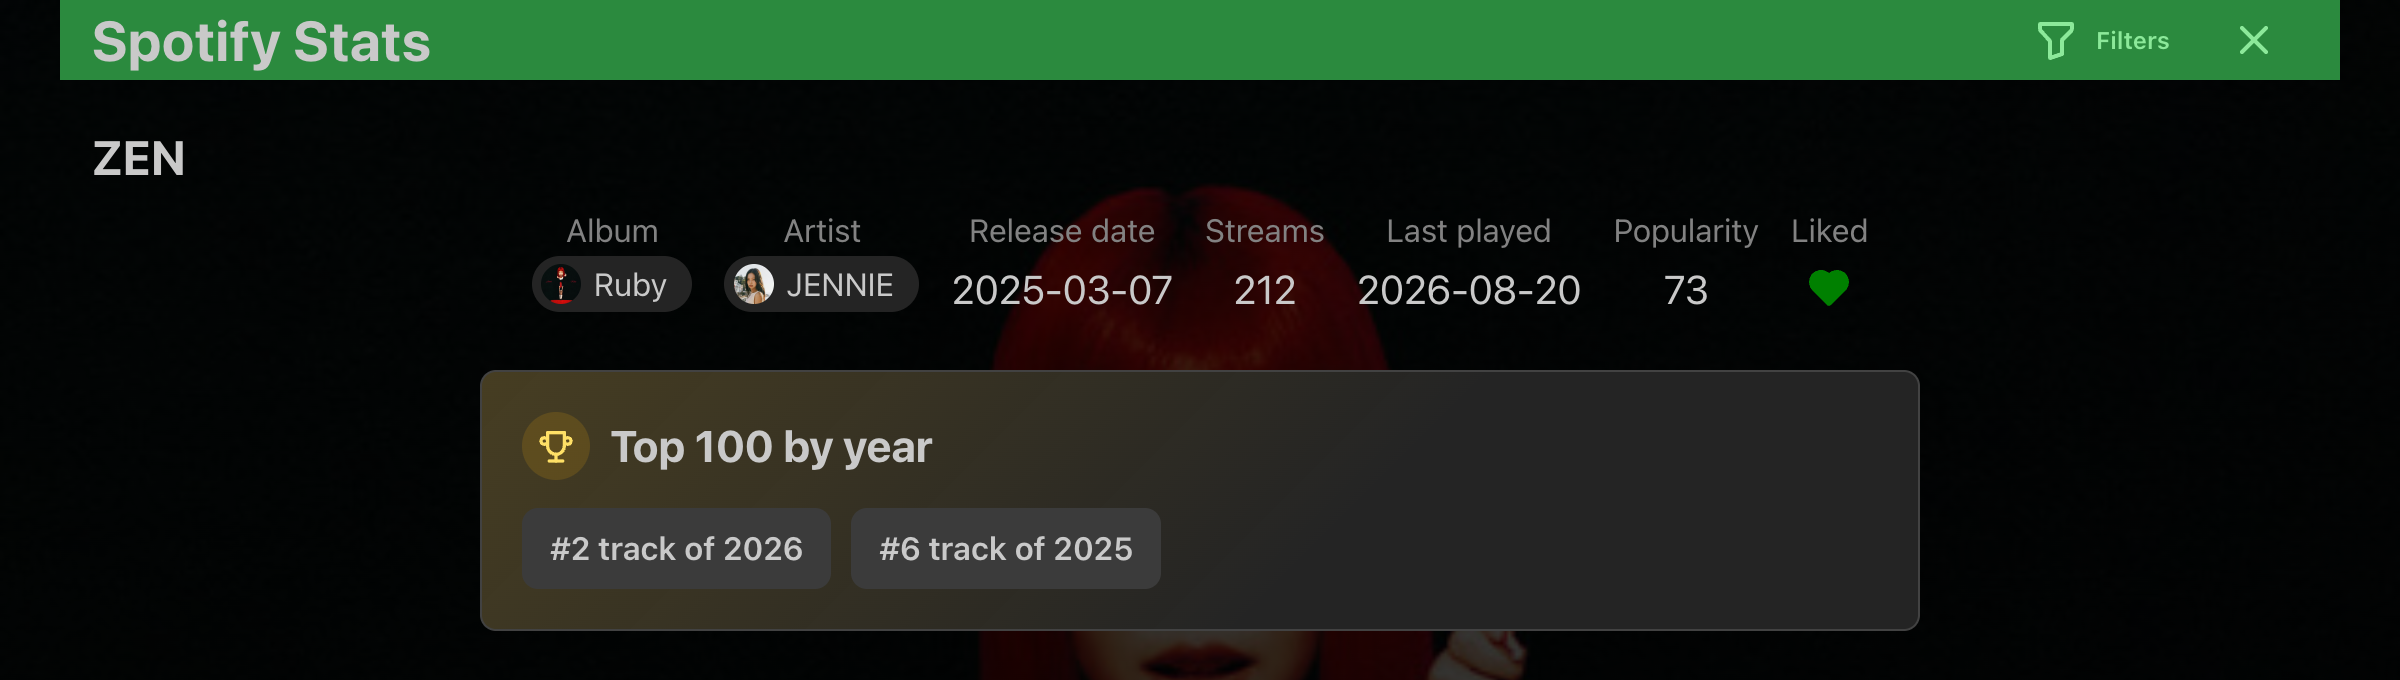
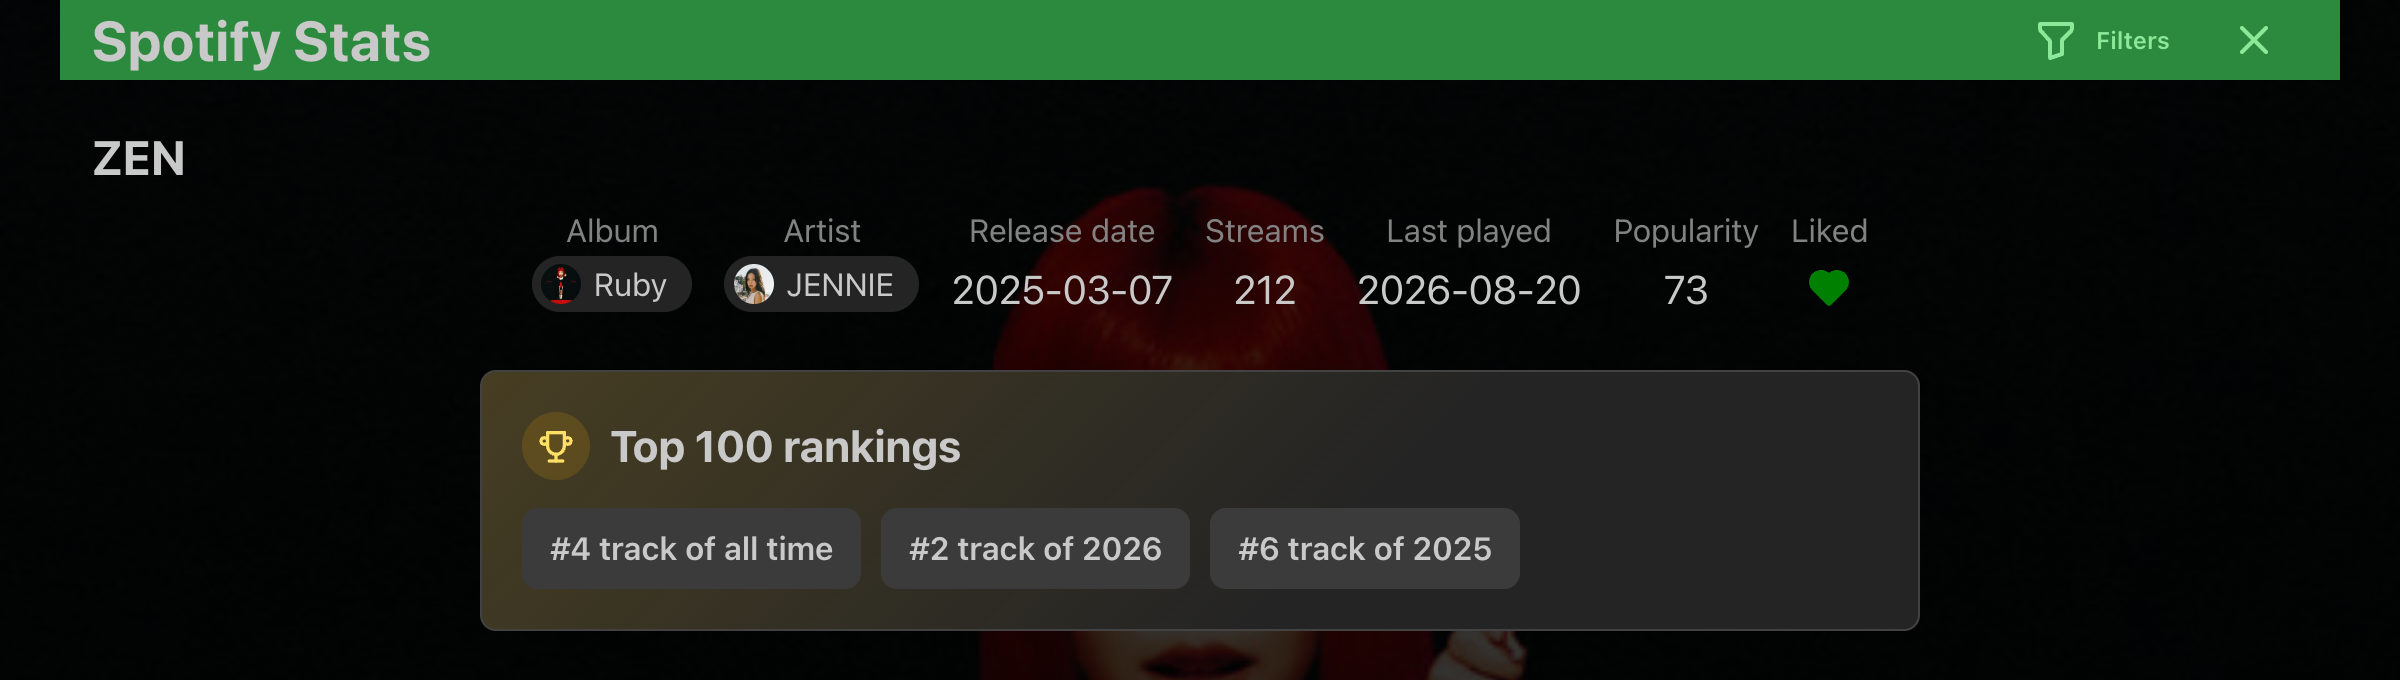
Add all-time top rankings
Copilot-Session: ed94926a-9a97-41ac-8987-03a39a0b0b0b

Changed region(s): [[0.2188, 0.7721, 0.625, 0.8338], [0.3125, 0.6176, 0.4062, 0.6794]]

diff --git a/client/src/design/TopRankings.tsx b/client/src/design/TopRankings.tsx
@@ -2,8 +2,8 @@ import { Paper, Text, ThemeIcon, Title } from "@mantine/core";
 import { IconTrophy } from "@tabler/icons-react";
 
 import type { RankingEntityType } from "../api";
-import { useYearlyRankings } from "../useApi";
-import styles from "./YearlyTopRankings.module.css";
+import { useTopRankings } from "../useApi";
+import styles from "./TopRankings.module.css";
 
 const entityLabels: Record<RankingEntityType, string> = {
   track: "track",
@@ -11,16 +11,16 @@ const entityLabels: Record<RankingEntityType, string> = {
   album: "album",
 };
 
-interface YearlyTopRankingsProps {
+interface TopRankingsProps {
   entityType: RankingEntityType;
   uri: string;
 }
 
-export function YearlyTopRankings({
+export function TopRankings({
   entityType,
   uri,
-}: YearlyTopRankingsProps) {
-  const { data: rankings } = useYearlyRankings(entityType, uri);
+}: TopRankingsProps) {
+  const { data: rankings } = useTopRankings(entityType, uri);
 
   if (!rankings?.length) return null;
 
@@ -32,12 +32,12 @@ export function YearlyTopRankings({
         <ThemeIcon color="yellow" variant="light" radius="xl" size="lg">
           <IconTrophy size={20} />
         </ThemeIcon>
-        <Title order={3}>Top 100 by year</Title>
+        <Title order={3}>Top 100 rankings</Title>
       </div>
       <div className={styles.rankings}>
         {rankings.map(({ rank, year }) => (
           <Text key={year} className={styles.ranking}>
-            #{rank} {entityLabel} of {year}
+            #{rank} {entityLabel} of {year ?? "all time"}
           </Text>
         ))}
       </div>

diff --git a/client/src/details/TrackDetails.tsx b/client/src/details/TrackDetails.tsx
@@ -7,7 +7,7 @@ import { TracksStreamingHistoryStack } from "../charts/TracksStreamingHistorySta
 import { ArtistPills } from "../design/ArtistPills";
 import { ChartSkeleton } from "../design/ChartSkeleton";
 import { KPIsList, KPIsListSkeleton } from "../design/KPI";
-import { YearlyTopRankings } from "../design/YearlyTopRankings";
+import { TopRankings } from "../design/TopRankings";
 import { AlbumPill } from "../list-items/AlbumPill";
 import { ArtistPill } from "../list-items/ArtistPill";
 import sharedStyles from "../list-items/ListItems.module.css";
@@ -75,7 +75,7 @@ export function TrackDetails({ trackURI }: { trackURI: string }) {
           ]}
         />
       </div>
-      <YearlyTopRankings entityType="track" uri={trackURI} />
+      <TopRankings entityType="track" uri={trackURI} />
       {credits && credits.length > 0 && <Credits credits={credits} />}
       <TracksStreamingHistoryStack />
       <TrackStreamsLineChart height={300} />

diff --git a/client/src/details/ArtistDetails.tsx b/client/src/details/ArtistDetails.tsx
@@ -4,7 +4,7 @@ import { ArtistStreamsLineChart } from "../charts/ArtistsLineChart";
 import { ArtistsStreamingHistoryStack } from "../charts/ArtistsStreamingHistoryStack";
 import { KPIsList, KPIsListSkeleton } from "../design/KPI";
 import { PillWithAvatar } from "../design/PillDesign";
-import { YearlyTopRankings } from "../design/YearlyTopRankings";
+import { TopRankings } from "../design/TopRankings";
 import { ArtistPill } from "../list-items/ArtistPill";
 import { useAlbums, useArtistCredits, useArtists } from "../useApi";
 import { useSetFilters } from "../useFilters";
@@ -78,7 +78,7 @@ export function ArtistDetails({ artistURI }: ArtistDetailsProps) {
         />
       </div>
 
-      <YearlyTopRankings entityType="artist" uri={artistURI} />
+      <TopRankings entityType="artist" uri={artistURI} />
 
       {artistCredits?.aliases && artistCredits.aliases.length > 0 && (
         <div style={{ marginTop: 24 }}>

diff --git a/client/src/api.ts b/client/src/api.ts
@@ -162,8 +162,8 @@ export interface YearCounts {
   year: number;
 }
 
-export interface YearlyRanking {
-  year: number;
+export interface TopRanking {
+  year: number | null;
   rank: number;
   stream_count: number;
 }
@@ -322,13 +322,13 @@ export async function getTrackCredits(uri: string): Promise<Credit[]> {
   return sendRequest(`/api/tracks/${uri}/credits`, `track credits for ${uri}`);
 }
 
-export async function getYearlyRankings(
+export async function getTopRankings(
   entityType: RankingEntityType,
   uri: string
-): Promise<YearlyRanking[]> {
+): Promise<TopRanking[]> {
   return sendRequest(
-    `/api/${entityType}s/${encodeURIComponent(uri)}/yearly-rankings`,
-    `${entityType} yearly rankings for ${uri}`
+    `/api/${entityType}s/${encodeURIComponent(uri)}/rankings`,
+    `${entityType} rankings for ${uri}`
   );
 }
 

diff --git a/client/src/useApi.ts b/client/src/useApi.ts
@@ -25,11 +25,11 @@ import {
   getRecommendationsInRange,
   getReleaseYears,
   getSpotifyAuthStatus,
+  getTopRankings,
   getTrackCredits,
   getTracks,
   getTracksStreamingHistory,
   getTracksStreamsByMonth,
-  getYearlyRankings,
   InsightsResponse,
   PaginatedResponse,
   PaginationParams,
@@ -165,14 +165,11 @@ export function useTrackCredits(uri: string) {
   });
 }
 
-export function useYearlyRankings(
-  entityType: RankingEntityType,
-  uri: string
-) {
+export function useTopRankings(entityType: RankingEntityType, uri: string) {
   return useQuery({
     ...defaultQueryOptions,
-    queryKey: ["yearly-rankings", entityType, uri],
-    queryFn: async () => getYearlyRankings(entityType, uri),
+    queryKey: ["top-rankings", entityType, uri],
+    queryFn: async () => getTopRankings(entityType, uri),
   });
 }
 

diff --git a/client/src/details/AlbumDetails.tsx b/client/src/details/AlbumDetails.tsx
@@ -3,7 +3,7 @@ import { AlbumsStreamingHistoryStack } from "../charts/AlbumsStreamingHistorySta
 import { ArtistPills } from "../design/ArtistPills";
 import { KPIsList } from "../design/KPI";
 import { TextSkeleton } from "../design/TextSkeleton";
-import { YearlyTopRankings } from "../design/YearlyTopRankings";
+import { TopRankings } from "../design/TopRankings";
 import { useAlbums } from "../useApi";
 import styles from "./Details.module.css";
 
@@ -52,7 +52,7 @@ export function AlbumDetails({ albumURI }: AlbumDetailsProps) {
           ]}
         />
       </div>
-      <YearlyTopRankings entityType="album" uri={albumURI} />
+      <TopRankings entityType="album" uri={albumURI} />
       <AlbumsStreamingHistoryStack />
       <AlbumStreamsLineChart height={300} />
     </>

diff --git a/client/src/design/TopRankings.module.css b/client/src/design/TopRankings.module.css
@@ -1,4 +1,5 @@
 .section {
+  width: 100%;
   max-width: 720px;
   margin: 24px auto;
   padding: 20px;

diff --git a/data/repository.py b/data/repository.py
@@ -178,14 +178,14 @@ class DataRepository:
             {"track_uri": track_uri},
         )
 
-    def track_yearly_rankings(self, track_uri: str) -> pd.DataFrame:
-        return self._yearly_rankings("track", track_uri)
+    def track_rankings(self, track_uri: str) -> pd.DataFrame:
+        return self._rankings("track", track_uri)
 
-    def artist_yearly_rankings(self, artist_uri: str) -> pd.DataFrame:
-        return self._yearly_rankings("artist", artist_uri)
+    def artist_rankings(self, artist_uri: str) -> pd.DataFrame:
+        return self._rankings("artist", artist_uri)
 
-    def album_yearly_rankings(self, album_uri: str) -> pd.DataFrame:
-        return self._yearly_rankings("album", album_uri)
+    def album_rankings(self, album_uri: str) -> pd.DataFrame:
+        return self._rankings("album", album_uri)
 
     def insight_frames(
         self, filters: Mapping[str, Any]
@@ -568,11 +568,9 @@ class DataRepository:
         with get_engine().begin() as connection:
             return self._read_dataframe_on(connection, query_name, params)
 
-    def _yearly_rankings(
-        self, entity_type: str, entity_uri: str
-    ) -> pd.DataFrame:
+    def _rankings(self, entity_type: str, entity_uri: str) -> pd.DataFrame:
         return self._read_dataframe(
-            f"select_{entity_type}_yearly_rankings",
+            f"select_{entity_type}_rankings",
             {"entity_uri": entity_uri},
         )
 

diff --git a/app/app.py b/app/app.py
@@ -52,9 +52,9 @@ def get_track_credits(track_uri):
     return track_credits_payload(track_uri)
 
 
-@app.route("/api/tracks/<track_uri>/yearly-rankings")
-def get_track_yearly_rankings(track_uri):
-    return to_json(repository.track_yearly_rankings(track_uri))
+@app.route("/api/tracks/<track_uri>/rankings")
+def get_track_rankings(track_uri):
+    return to_json(repository.track_rankings(track_uri))
 
 
 @app.route("/api/playlists")
@@ -72,9 +72,9 @@ def get_artist_credits(artist_uri):
     return artist_credits_payload(artist_uri)
 
 
-@app.route("/api/artists/<artist_uri>/yearly-rankings")
-def get_artist_yearly_rankings(artist_uri):
-    return to_json(repository.artist_yearly_rankings(artist_uri))
+@app.route("/api/artists/<artist_uri>/rankings")
+def get_artist_rankings(artist_uri):
+    return to_json(repository.artist_rankings(artist_uri))
 
 
 @app.route("/api/albums")
@@ -82,9 +82,9 @@ def list_albums():
     return albums_payload(parse_request_args(request.args))
 
 
-@app.route("/api/albums/<album_uri>/yearly-rankings")
-def get_album_yearly_rankings(album_uri):
-    return to_json(repository.album_yearly_rankings(album_uri))
+@app.route("/api/albums/<album_uri>/rankings")
+def get_album_rankings(album_uri):
+    return to_json(repository.album_rankings(album_uri))
 
 
 @app.route("/api/labels")
